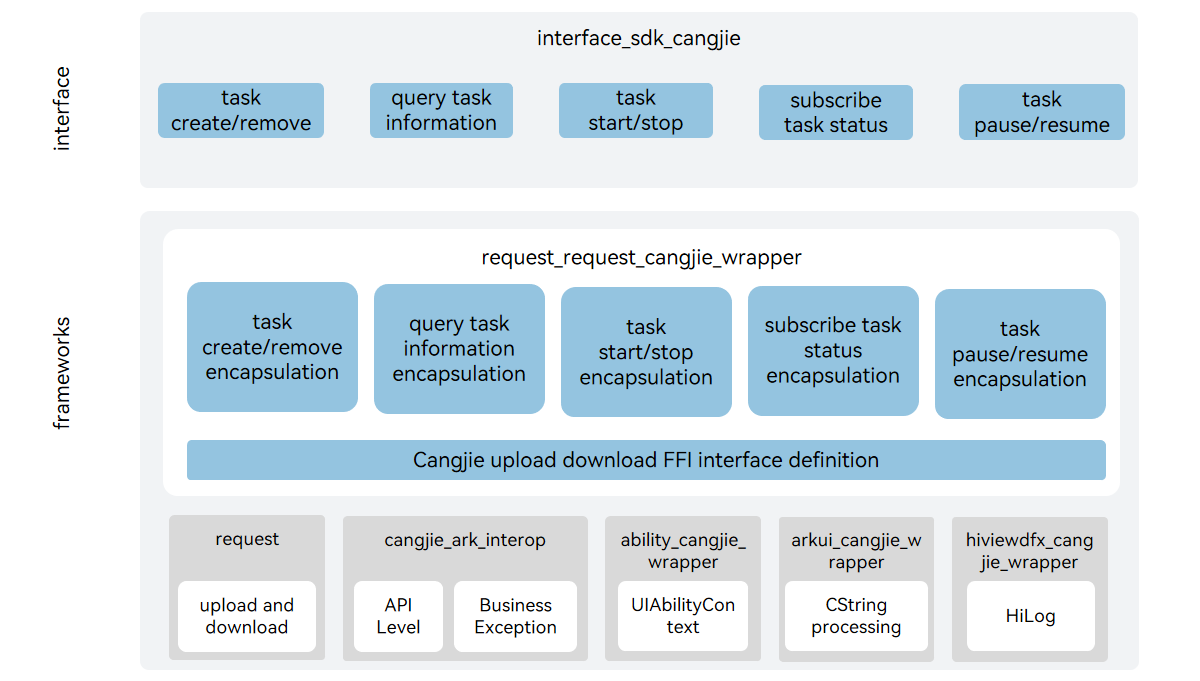
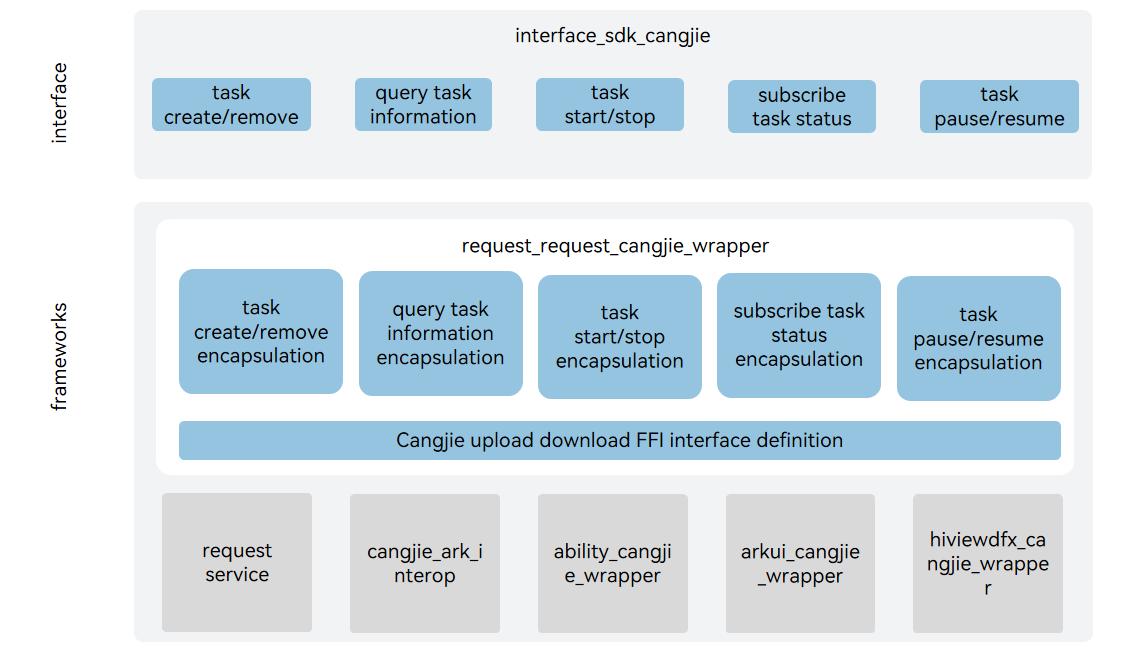
fix readme

diff --git a/README.md b/README.md
@@ -2,7 +2,7 @@
 
 ## Introduction
 
-The request_cangjie_wrapper is a Cangjie API encapsulated on OpenHarmony based on the capabilities of the upload and download subsystem,Cangjie open interface for uploading and downloading supports standard devices. The upload and download subsystem provides upload and download capabilities for applications, including creating, removing, suspending, and starting upload and download tasks, and subscribing to the task progress and result.
+The request_cangjie_wrapper provides upload and download capabilities for applications, including creating, removing, suspending, and starting upload and download tasks, and subscribing to the task progress and result,Cangjie open interface for uploading and downloading supports standard devices.
 
 ## System Architecture
 
@@ -12,17 +12,28 @@ The request_cangjie_wrapper is a Cangjie API encapsulated on OpenHarmony based o
 
 As depicted in the architecture diagram:
 
-- task create/remove: Offer interfaces for the creation and removal of upload and download tasks.
-- task start/stop: Provide interfaces to initiate and terminate the already created upload and download tasks.
-- task pause/resume: Furnish interfaces for interrupting an executing upload or download task and resuming an interrupted one.
-- query task information : Present an interface for querying information regarding upload and download tasks.
-- subscribe task status : Provide an interface for subscribing to task status. A callback will be triggered when the task status undergoes a change.
-- Cangjie upload download FFI interface definition: Responsible for defining the C language interoperability interface called by the Cangjie language, which is employed to realize Cangjie's upload and download capabilities.
-- request: Assume the responsibility of providing fundamental upload and download functions. It encapsulates the C language interface for interoperability with Cangjie.
-- cangjie_ark_interop: Responsible for providing Cangjie annotation class definitions for labeling APIs, and providing the BusinessException class definition thrown to users.
-- ability_cangjie_wrapper: Responsible for providing the basic capabilities of Ability or Application contexts, including accessing resources of specific applications, etc.
-- arkui_cangjie_wrapper: Responsible for providing basic type definitions and the capability to convert CString type to String type.
-- hiviewdfx_cangjie_wrapper: Responsible for providing log interfaces for printing logs at key paths.
+Interface Layer
+
+* Task Creation/Removal: Provides interfaces for creating and removing upload/download tasks.
+* Query Task Information: Provides interfaces for querying upload/download task information.
+* Task Start/Stop: Provides interfaces for starting and stopping already created upload/download tasks.
+* Subscribe to Task Status: Provides interfaces for subscribing to task status, triggering callbacks when task status changes.
+* Task Pause/Resume: Provides interfaces for pausing an executing upload/download task and resuming a paused upload/download task.
+
+Framework Layer
+
+* Encapsulates the underlying task capabilities to provide standardized functional support for the interface layer, including:
+  * Task Creation/Removal Function Encapsulation
+  * Query Task Information Function Encapsulation
+  * Task Start/Stop Function Encapsulation
+  * Subscribe to Task Status Function Encapsulation
+  * Task Pause/Resume Function Encapsulation
+* Cangjie Upload/Download FFI Interface Definition: Responsible for defining C language interoperability interfaces called by the Cangjie language to implement Cangjie upload/download capabilities.
+* request: Responsible for providing upload/download basic functionality, encapsulating C language interfaces for Cangjie interoperability.
+* cangjie_ark_interop: Responsible for providing Cangjie annotation class definitions for API annotation, and providing BusinessException exception class definition thrown to users.
+* ability_cangjie_wrapper: Responsible for providing basic capabilities of Ability or Application context, including accessing specific application resources.
+* arkui_cangjie_wrapper: Responsible for providing basic type definitions and the ability to convert CString type to String type.
+* hiviewdfx_cangjie_wrapper: Responsible for providing logging interfaces for printing logs at critical paths.
 
 ## Directory Structure
 
@@ -43,30 +54,28 @@ base/request/request_cangjie_wrapper
 - The download server must support the head method of the HTTP protocol and be able to obtain the size of the download data through Content-length; otherwise, the download task will fail.
 - When downloading, if the user specifies that the file already exists, it will be verified when creating the task and an exception will be thrown, resulting in the failure of task creation.
 - Allow users to specify a successful multi-file upload strategy: When multiple files are uploaded in the same task, the task dimension is used as the judgment criterion. All files must be uploaded successfully to be considered successful.
+- Compared with the API capabilities provided by ArkTS, the following functions are temporarily not supported
+  * Create and start an upload task.
+  * Create and start a download task.
+  * Set the upper limit of bytes that the task can transfer per second.
+  * Reasons for the failure of the subscription/unsubscription task.
+  * Reasons for waiting for the subscription/unsubscription task.
 
 ## Instructions For Use
 
-- The following upload and download functions are provided
-  
-  - Create a task to upload or download.
-  - Query the task based on the task id.
-  - Remove the specified task belonging to the caller.
-  - Search for task id.
-  - Based on the default Filter conditions. Search for task id.
-  - Based on the Filter conditions. Query the detailed information of the task based on the task id.
-  - Query the detailed information of the task based on the task id and token.
-  - Events for subscribing to/unsubscribing tasks.
-  - Start/Stop/Pause/restart tasks.
+The following upload and download functions are provided
 
-- Compared with the API capabilities provided by ArkTS, the following functions are temporarily not supported
-  
-  - Create and start an upload task.
-  - Create and start a download task.
-  - Set the upper limit of bytes that the task can transfer per second.
-  - Reasons for the failure of the subscription/unsubscription task.
-  - Reasons for waiting for the subscription/unsubscription task.
+- Create a task to upload or download.
+- Query the task based on the task id.
+- Remove the specified task belonging to the caller.
+- Search for task id.
+- Based on the default Filter conditions. Search for task id.
+- Based on the Filter conditions. Query the detailed information of the task based on the task id.
+- Query the detailed information of the task based on the task id and token.
+- Events for subscribing to/unsubscribing tasks.
+- Start/Stop/Pause/restart tasks.
 
-- For the request APIs, please refer to [Upload and Download API reference](https://gitcode.com/openharmony-sig/arkcompiler_cangjie_ark_interop/blob/master/doc/API_Reference/source_en/apis/BasicServicesKit/cj-apis-request-agent.md). For relevant guidance, please refer to [Upload and Download Guide](https://gitcode.com/openharmony-sig/arkcompiler_cangjie_ark_interop/blob/master/doc/Dev_Guide/source_en/basic-services/request/cj-app-file-upload-download.md).
+For the request APIs, please refer to [Upload and Download API reference](https://gitcode.com/openharmony-sig/arkcompiler_cangjie_ark_interop/blob/master/doc/API_Reference/source_en/apis/BasicServicesKit/cj-apis-request-agent.md). For relevant guidance, please refer to [Upload and Download Guide](https://gitcode.com/openharmony-sig/arkcompiler_cangjie_ark_interop/blob/master/doc/Dev_Guide/source_en/basic-services/request/cj-app-file-upload-download.md).
 
 ## Code Contribution
 
@@ -74,7 +83,7 @@ Developers are welcome to contribute code, documentation, etc. For specific cont
 
 ## Repositories Involved
 
-[request_request](https://gitee.com/openharmony/request_request/blob/master/README.md)
+[request_request](https://gitcode.com/openharmony/request_request/blob/master/README.md)
 
 [cangjie_ark_interop](https://gitcode.com/openharmony-sig/arkcompiler_cangjie_ark_interop/blob/master/README.md)
 
@@ -83,3 +92,5 @@ Developers are welcome to contribute code, documentation, etc. For specific cont
 [arkui_cangjie_wrapper](https://gitcode.com/openharmony-sig/arkui_arkui_cangjie_wrapper/blob/master/README.md)
 
 [hiviewdfx_cangjie_wrapper](https://gitcode.com/openharmony-sig/hiviewdfx_hiviewdfx_cangjie_wrapper/blob/master/README.md)
+
+

diff --git a/README_zh.md b/README_zh.md
@@ -1,8 +1,8 @@
-# 上传下载仓颉接口
+# 上传下载仓颉封装
 
 ## 简介
 
-上传下载仓颉接口是在 OpenHarmony 上基于上传下载子系统能力之上封装的仓颉API，当前上传下载仓颉接口支持standard设备。上传下载仓颉接口为应用提供上传/下载能力，包括创建、移除、暂停、启动任务上传/下载，以及订阅任务进度、成功、失败等，支撑开发者方便、高效地使用下载/上传业务的功能。
+上传下载仓颉封装是在OpenHarmony上提供开发者使用仓颉语言进行应用开发时的上传下载能力，当前上传下载仓颉封装支持standard设备。仓颉上传下载封装为应用提供完整的上传 / 下载能力，涵盖任务创建、移除、暂停、启动等核心操作，同时支持订阅任务进度、成功、失败等状态变更，助力开发者便捷、高效地实现上传 / 下载业务功能。
 
 ## 系统架构
 
@@ -12,12 +12,25 @@
 
 如架构图所示：
 
-- 任务创建/移除：提供创建和移除上传下载任务的接口。
-- 任务启动/停止：提供启动和停止已经创建的上传下载任务的接口。
-- 任务中断/继续：提供中断一个正在执行的上传下载任务和继续一个被中断的上传下载任务的接口。
-- 查询任务信息：提供查询上传下载任务信息的接口。
-- 订阅任务状态：提供订阅任务状态的接口，当任务状态发生变化时候触发回调。
+接口层
+
+- 任务创建/移除：面向开发者提供创建和移除上传下载任务的能力。
+- 查询任务信息：面向开发者提供查询上传下载任务信息的能力。
+- 任务启动/停止：面向开发者提供启动和停止已经创建的上传下载任务的能力。
+- 订阅任务状态：面向开发者提供订阅任务状态的接口的能力，当任务状态发生变化时候触发回调。
+- 任务中断/继续：面向开发者提供中断一个正在执行的上传下载任务和继续一个被中断的上传下载任务的能力。
+
+框架层
+
+- 任务创建 / 移除功能封装：基于底层request服务的任务创建和移除的能力，实现创建和移除上传下载任务的功能
+- 查询任务信息功能封装：基于底层request服务的任务信息查询的能力，实现查询上传下载任务信息的功能
+- 任务启动 / 停止功能封装：基于底层request服务的任务启动和停止的能力，实现启动和停止已经创建的上传下载任务的功能
+- 订阅任务状态功能封装：基于底层request服务的任务订阅的能力，实现订阅任务状态的接口的功能
+- 任务中断 / 继续功能封装：基于底层request服务的任务中断和继续的能力，实现任务中断和继续的功能
 - 仓颉上传下载FFI接口定义：负责定义被仓颉语言调用的C语言互操作接口，用于实现仓颉上传下载能力。
+
+架构图中依赖部件引入说明：
+
 - request：负责提供上传下载基础功能，封装C语言接口提供给仓颉进行互操作。
 - cangjie_ark_interop：负责提供仓颉注解类定义，用于对API进行标注，以及提供抛向用户的BusinessException异常类定义。
 - ability_cangjie_wrapper：负责提供Ability或Application的上下文的基础能力，包括访问特定应用程序的资源等。
@@ -35,38 +48,36 @@ base/request/request_cangjie_wrapper
     └── request        # 仓颉上传下载接口测试代码
 ```
 
+## 使用说明
+
+提供以下上传下载功能
+
+- 创建要上传或下载的任务
+- 根据任务id查询任务
+- 移除属于调用方的指定任务
+- 根据默认Filter过滤条件查找任务id
+- 根据Filter过滤条件查找任务id
+- 根据任务id查询任务的详细信息
+- 根据任务id和token查询任务的详细信息
+- 订阅/取消订阅任务的事件
+- 启动/停止/暂停/重启任务
+
+request相关API请参见[上传下载 API参考](https://gitcode.com/openharmony-sig/arkcompiler_cangjie_ark_interop/blob/master/doc/API_Reference/source_zh_cn/apis/BasicServicesKit/cj-apis-request-agent.md)，相关指导请参见[上传下载开发指南](https://gitcode.com/openharmony-sig/arkcompiler_cangjie_ark_interop/blob/master/doc/Dev_Guide/source_zh_cn/basic-services/request/cj-app-file-upload-download.md)。
+
 ## 约束
 
 - 如需使用request服务，需要申请ohos.permission.INTERNET权限。
 - request数据单元为文件形式，其余数据形式需要调用者自行封装为文件路径。
-- request服务不提供完整的HTTP/HTTPS SDK接口，只是HTTP/HTTPS SDK 的用户，如需此接口推荐使用[netmanager](https://gitcode.com/openharmony-sig/netmanager_netmanager_cangjie_wrapper)。
-- 下载服务器需要支持HTTP协议的head方法，能够通过Content-length获取下载数据大小，否则下载任务失败。
+- request服务不提供完整的HTTP/HTTPS 接口，如需使用完整的HTTP/HTTPS 接口推荐使用[netmanager](https://gitcode.com/openharmony-sig/netmanager_netmanager_cangjie_wrapper)。
+- 下载服务器需支持 HTTP 协议的 head 方法，并且需要能通过 Content-length 获取下载数据大小，否则下载任务会失败。
 - 下载时用户指定文件已存在，会在创建任务时校验并抛出异常，创建任务失败。
 - 允许用户指定多文件上传成功策略：多文件在同一个任务中上传，以任务维度为判断标准，必须所有文件上传成功判定为成功。
-
-## 使用说明
-
-- 提供以下上传下载功能
-  
-  - 创建要上传或下载的任务
-  - 根据任务id查询任务
-  - 移除属于调用方的指定任务
-  - 根据默认Filter过滤条件查找任务id
-  - 根据Filter过滤条件查找任务id
-  - 根据任务id查询任务的详细信息
-  - 根据任务id和token查询任务的详细信息
-  - 订阅/取消订阅任务的事件
-  - 启动/停止/暂停/重启任务
-
 - 与ArkTS提供的API能力相比，暂不支持以下功能：
-  
-  - 创建并启动一个上传任务
-  - 创建并启动一个下载任务
-  - 设置任务每秒能传输的字节数上限
-  - 订阅/取消订阅任务失败原因
-  - 订阅/取消订阅任务等待原因
-
-- request相关API请参见[上传下载 API参考](https://gitcode.com/openharmony-sig/arkcompiler_cangjie_ark_interop/blob/master/doc/API_Reference/source_zh_cn/apis/BasicServicesKit/cj-apis-request-agent.md)，相关指导请参见[上传下载开发指南](https://gitcode.com/openharmony-sig/arkcompiler_cangjie_ark_interop/blob/master/doc/Dev_Guide/source_zh_cn/basic-services/request/cj-app-file-upload-download.md)。
+  * 创建并启动一个上传任务
+  * 创建并启动一个下载任务
+  * 设置任务每秒能传输的字节数上限
+  * 订阅/取消订阅任务失败原因
+  * 订阅/取消订阅任务等待原因
 
 ## 参与贡献
 
@@ -74,7 +85,7 @@ base/request/request_cangjie_wrapper
 
 ## 相关仓
 
-[request_request](https://gitee.com/openharmony/request_request/tree/master)
+[request_request](https://gitcode.com/openharmony/request_request/blob/master/README_ZH.md)
 
 [cangjie_ark_interop](https://gitcode.com/openharmony-sig/arkcompiler_cangjie_ark_interop/blob/master/README_zh.md)
 
